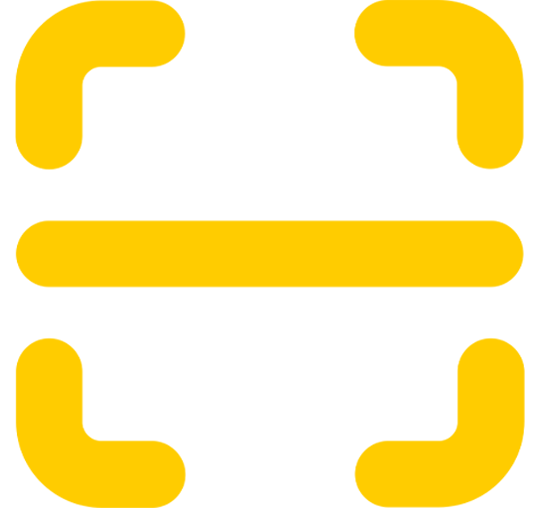
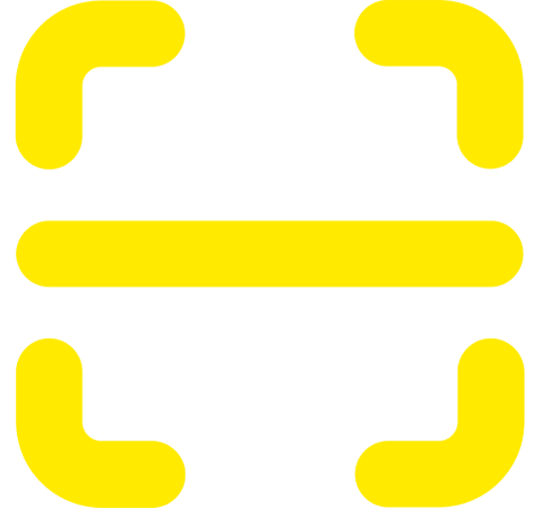
brightest btn on home

diff --git a/app/assets/stylesheets/components/_big-btn.scss b/app/assets/stylesheets/components/_big-btn.scss
@@ -2,7 +2,7 @@
   width: 80px;
   height: 80px;
   padding: 15px;
-  border: 6px solid $warm-yellow;
+  border: 6px solid $bright-yellow;
   // background-color: $warm-yellow;
   // background-color: rgba(248, 248, 248, 0.8);
   border-radius: 50%;

diff --git a/app/assets/stylesheets/config/_colors.scss b/app/assets/stylesheets/config/_colors.scss
@@ -14,6 +14,7 @@ $light-grey: #F4F4F4;
 $white: #f8f8f8;
 $beige: #f1d6ab;
 $dark-yellow: #e3b04b;
+$bright-yellow: #ffea00;
 $mydark: #2b2b28;
 $warm-yellow: #ffcc00;
 $mylight-grey: #f1f3f4;
